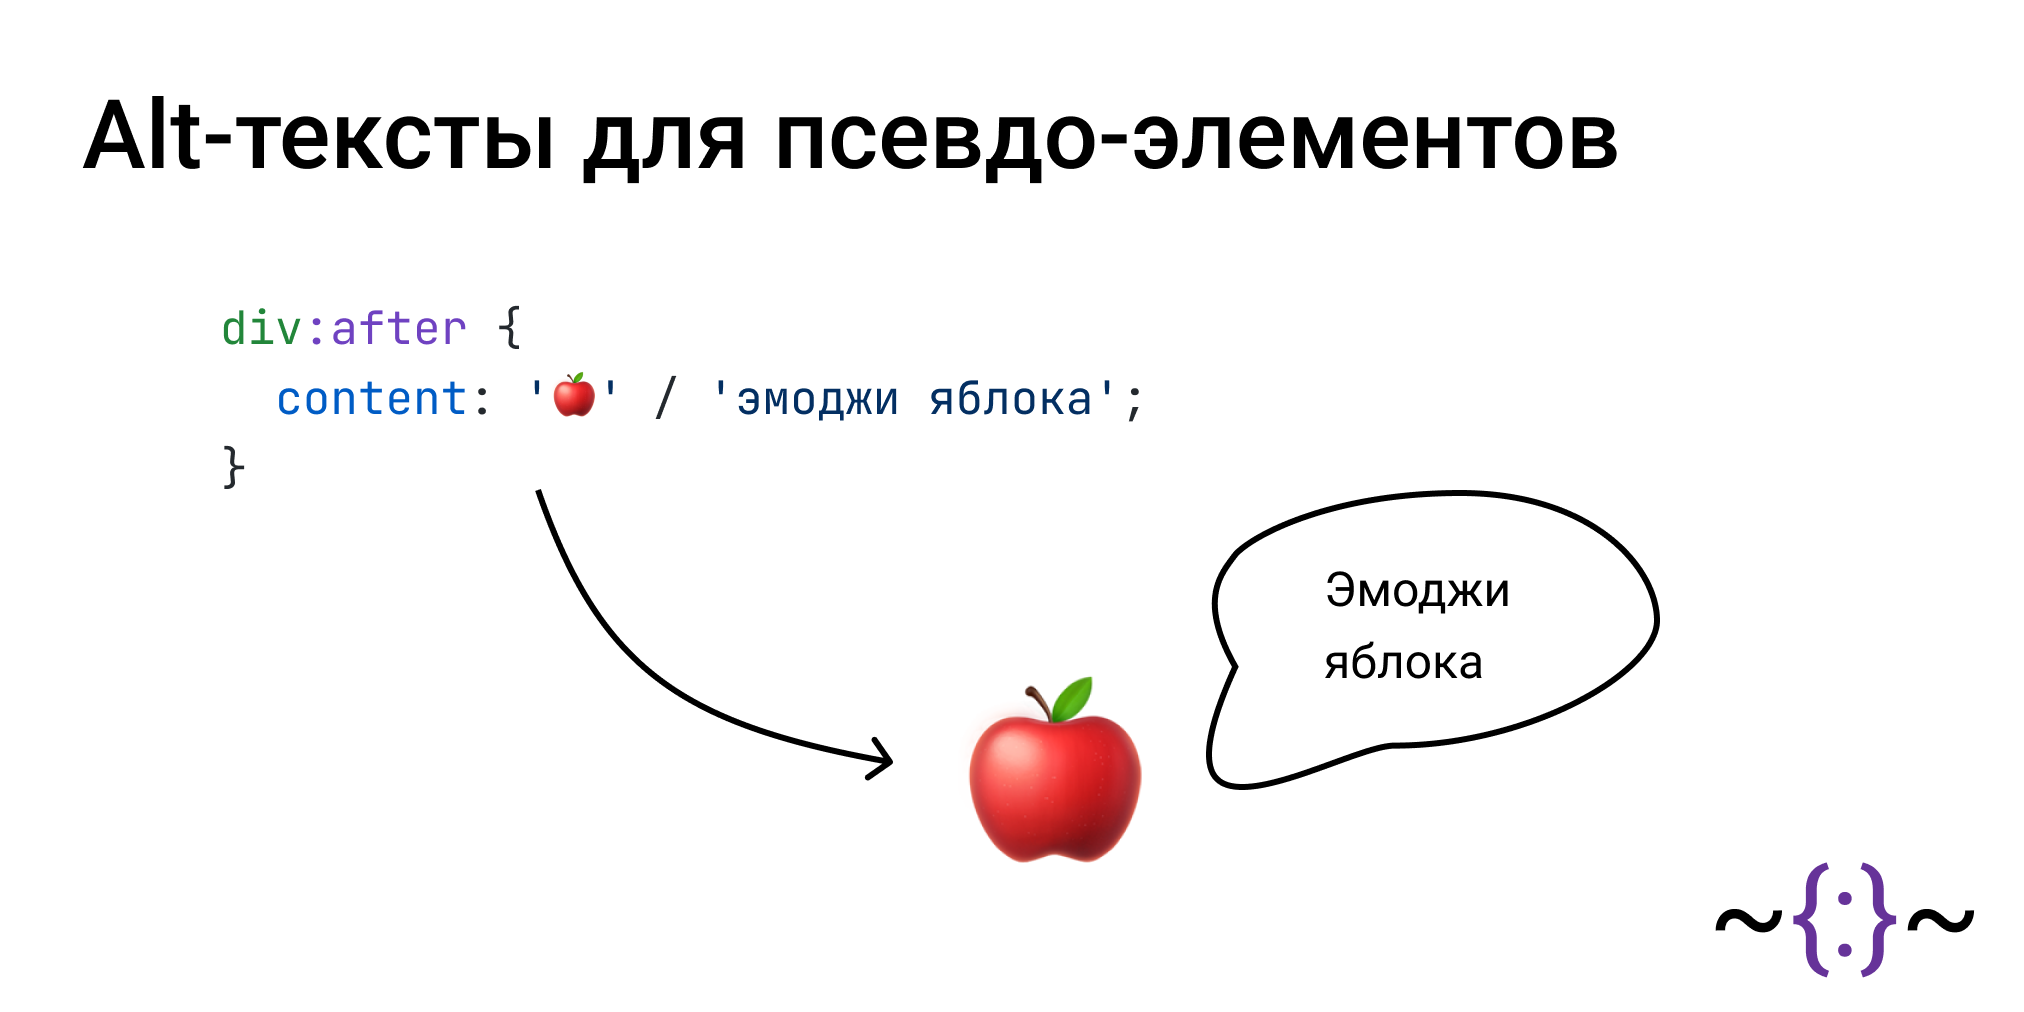
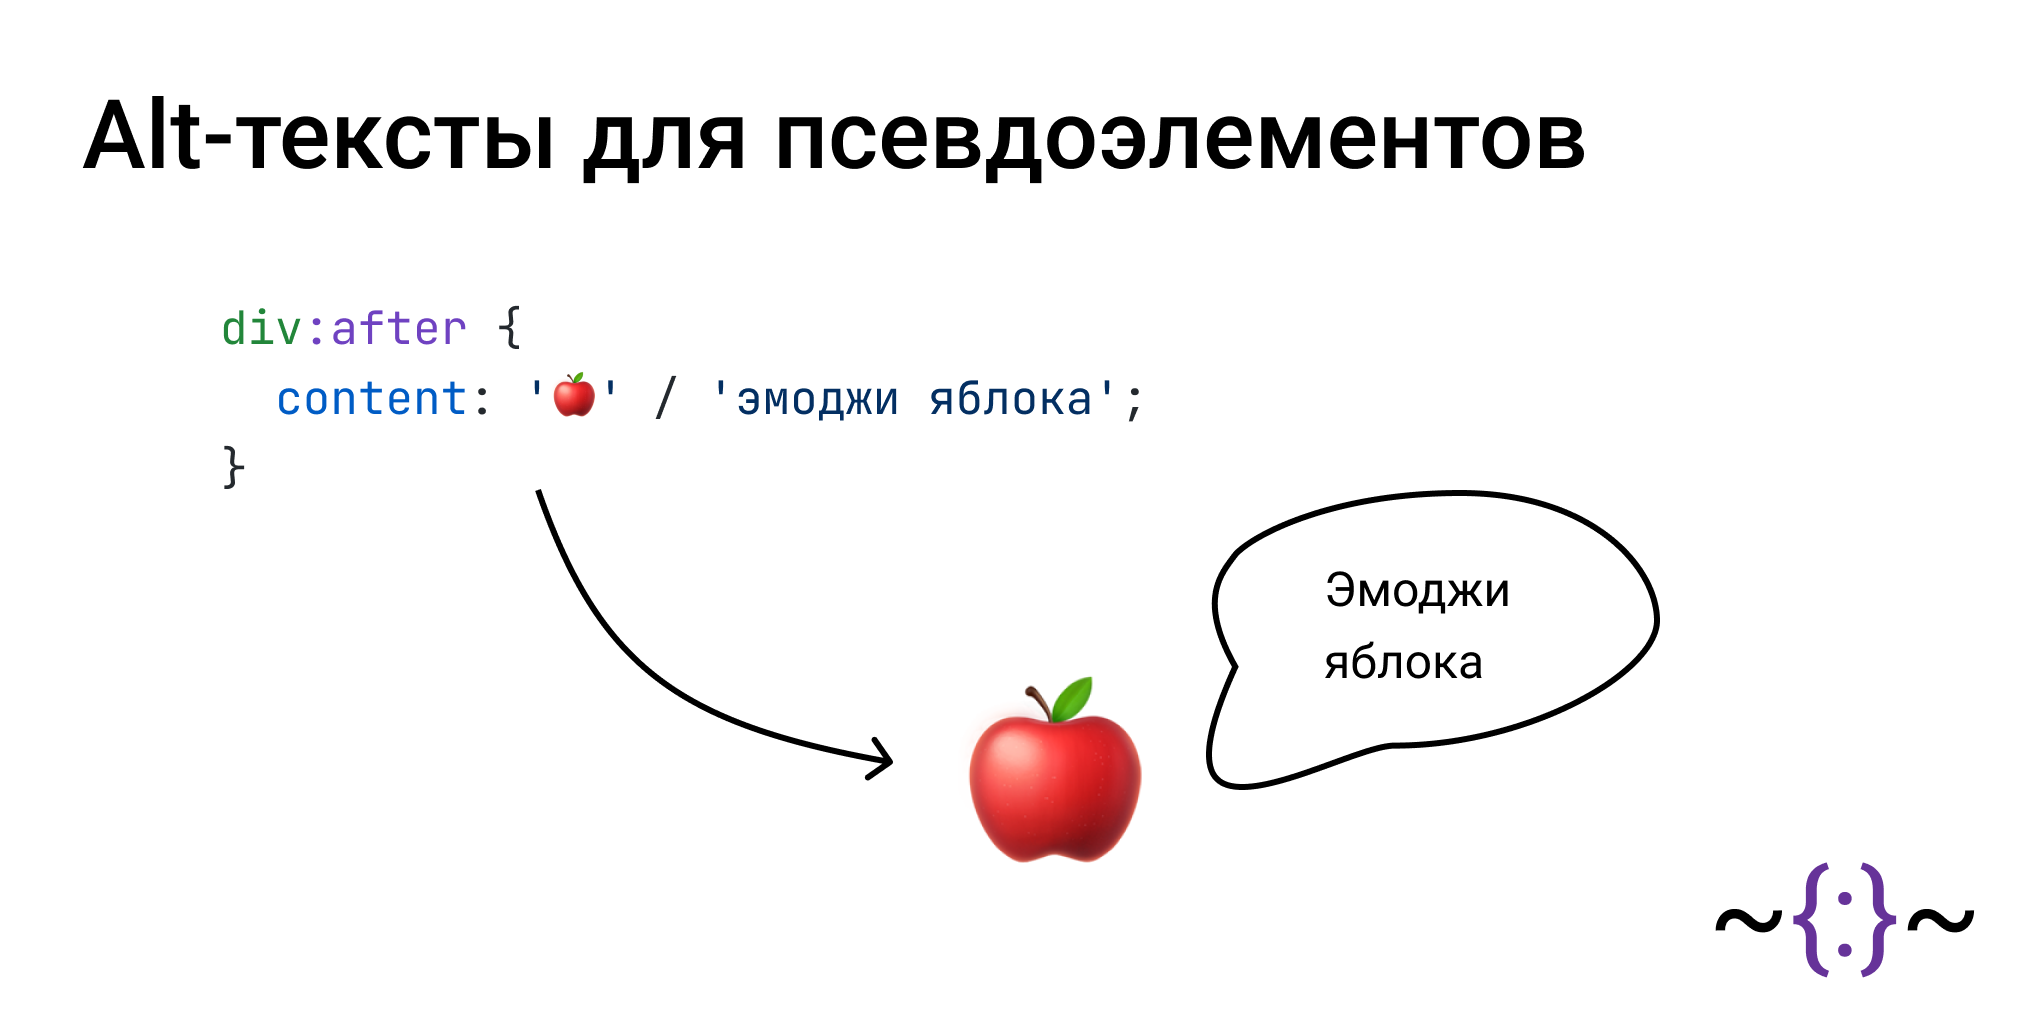
fix for pseudo-alt

Changed region(s): [[0.5292, 0.0919, 0.8093, 0.1838]]

diff --git a/2024/notes/pseudo-alt/index.html b/2024/notes/pseudo-alt/index.html
@@ -5,13 +5,13 @@
     <meta charset="UTF-8">
     <title>CSS blog</title>
 
-    <meta name="description" content="Alt-тексты для псевдо-элементов.">
+    <meta name="description" content="Alt-тексты для псевдоэлементов.">
 
     <meta property="og:url" content="https://ru.ariarzer.dev/">
     <meta property="og:type" content="website">
-    <meta property="og:title" content="Alt-тексты для псевдо-элементов.">
+    <meta property="og:title" content="Alt-тексты для псевдоэлементов.">
     <meta property="og:description"
-          content="Общеизвестно, что псевдо-элементы не видны для скринридеров. Однако с недавнего времени это не совсем так.">
+          content="Общеизвестно, что псевдоэлементы не видны для скринридеров. Однако с недавнего времени это не совсем так.">
 
     <meta property="og:image" content="https://ru.ariarzer.dev/2023/notes/pseudo-alt/preview/preview.png">
 
@@ -52,8 +52,8 @@
             <time datetime="2024-01-11 13:00">11 января 2024 года</time>
             .
         </p>
-        <h1>Alt-тексты для псевдо-элементов.</h1>
-        <p>Общеизвестно, что псевдо-элементы не видны для скринридеров. Однако с недавнего времени это не совсем
+        <h1>Alt-тексты для псевдоэлементов.</h1>
+        <p>Общеизвестно, что псевдоэлементы не видны для скринридеров. Однако с недавнего времени это не совсем
             так.</p>
         <p>Если посмотреть в черновик спецификации <a href="https://www.w3.org/TR/css-content/#content-property">css-content</a>,
             то <a href="https://ru.ariarzer.dev/articles/2021/value-definition-syntax.html">синтаксис</a> значения
@@ -75,7 +75,22 @@
 &lt;/style></code></pre>
         <p>На элементе <code>div</code> в <a href="https://developer.chrome.com/blog/full-accessibility-tree">дереве
             доступности</a> окажется текст после слеша, то есть <code>эмоджи яблока</code>.</p>
-        <img src="./img/tree.png"
+        <img src="img/tree_emoji.png"
+             alt="текст в дереве доступности"
+             loading="lazy"
+             width="300px"
+             border="1px"
+        >
+        <p>Более полезным новый синтаксис будет, если вы кладете в пседоэлемент не текст, а, например, картинку:</p>
+        <iframe src="demo/2.html"></iframe>
+        <pre><code data-lang="html">&lt;div>&lt;/div>
+&lt;style>
+    div:after {
+        content: url('img/apple.png'); /* <a href="#fallback">фолбэк</a> */
+        content: url('img/apple.png') / 'красное яблоко';
+    }
+&lt;/style></code></pre>
+        <img src="img/tree_apple.png"
              alt="текст в дереве доступности"
              loading="lazy"
              width="300px"
@@ -102,7 +117,7 @@
         >
         <p>Пока что только Chrome.</p>
         <p><strong>Поэтому будьте внимательны и по возможности пишите альтернативный текст для ваших
-            псевдо-элементов.</strong></p>
+            псевдоэлементов.</strong></p>
         <footer>
             <p>Я в <a href="https://twitter.com/ariarzer">twitter</a>, <a href="https://vk.com/ariarzer">VK</a>, <a
                 href="https://t.me/ariarzer">telegram</a>.</p>

diff --git a/2024/notes/pseudo-translation/index.html b/2024/notes/pseudo-translation/index.html
@@ -5,11 +5,11 @@
     <meta charset="UTF-8">
     <title>CSS blog</title>
 
-    <meta name="description" content="О переводчиках и псевдо-элементах.">
+    <meta name="description" content="О переводчиках и псевдоэлементах.">
 
     <meta property="og:url" content="https://ru.ariarzer.dev/">
     <meta property="og:type" content="website">
-    <meta property="og:title" content="О переводчиках и псевдо-элементах.">
+    <meta property="og:title" content="О переводчиках и псевдоэлементах.">
     <meta property="og:description"
           content="Текст из свойства `content` не видят автоматические переводчики. Не пишите там ничего важного. А лучше вообще ничего не пишите.">
 
@@ -52,7 +52,7 @@
             <time datetime="2024-01-09 13:00">9 января 2024 года</time>
             .
         </p>
-        <h1>О переводчиках и псевдо-элементах.</h1>
+        <h1>О переводчиках и псевдоэлементах.</h1>
         <p><strong>Не стоит класть в свойство "content" важный текст.</strong> А лучше вообще никакой.</p>
         <p>Помимо того, что он не озвучивается скрин-ридерами и в целом существует только для людей, которые могут
             его увидеть, он так же не может быть переведен автоматическими переводчиками, потому что буквально для них

diff --git a/2024/notes/pseudo-alt/demo/2.html b/2024/notes/pseudo-alt/demo/2.html
@@ -13,8 +13,8 @@
     <div></div>
     <style>
         div:after {
-            content: '🍎';
-            content: '🍎' / 'эмоджи яблока';
+            content: url('img/apple.png');
+            content: url('img/apple.png') / 'красное яблоко';
         }
     </style>
 </body>
